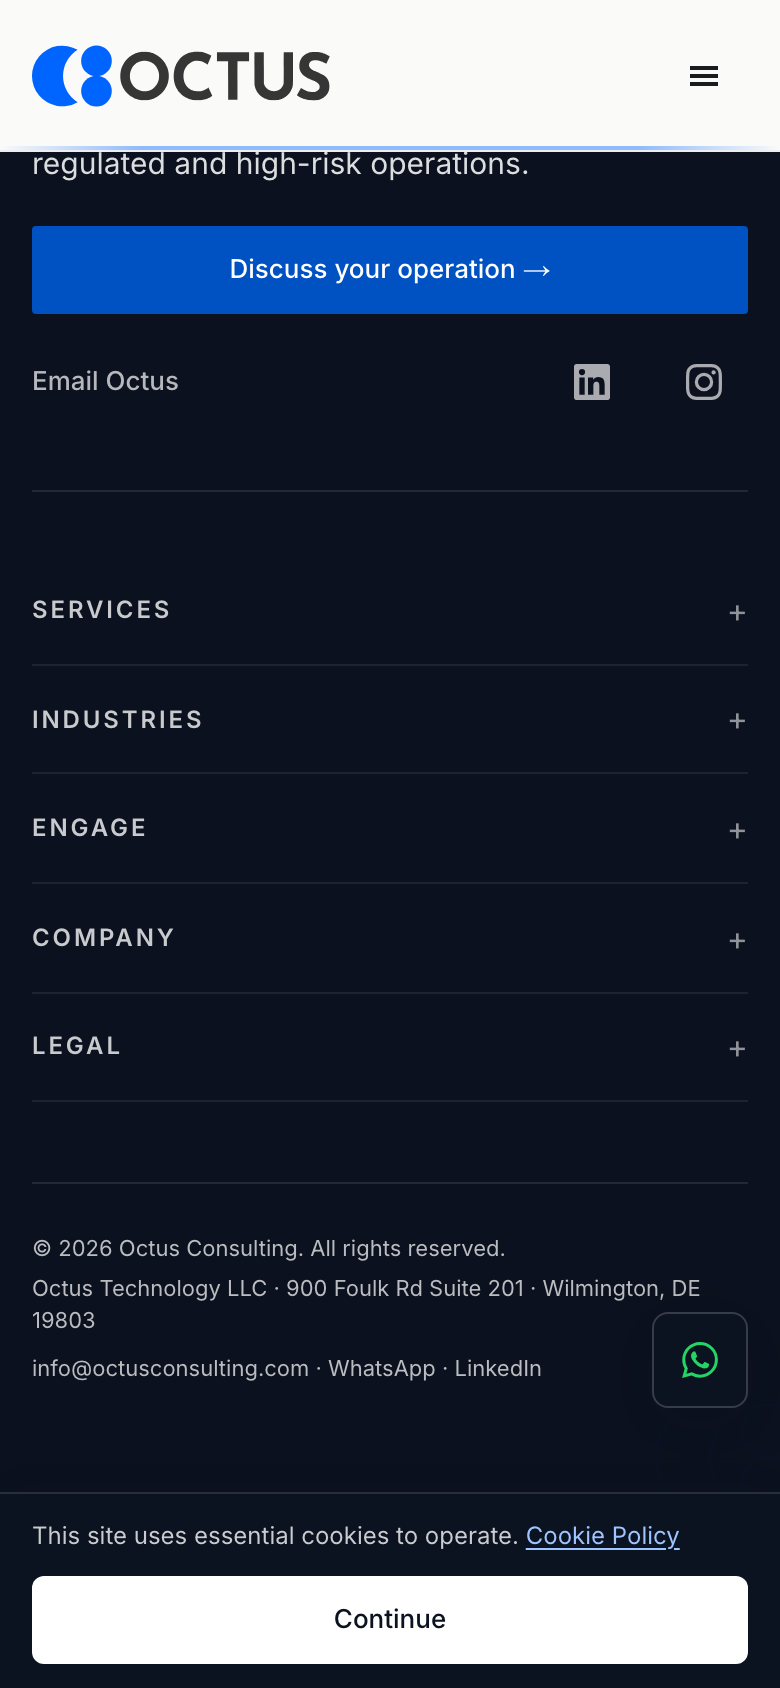
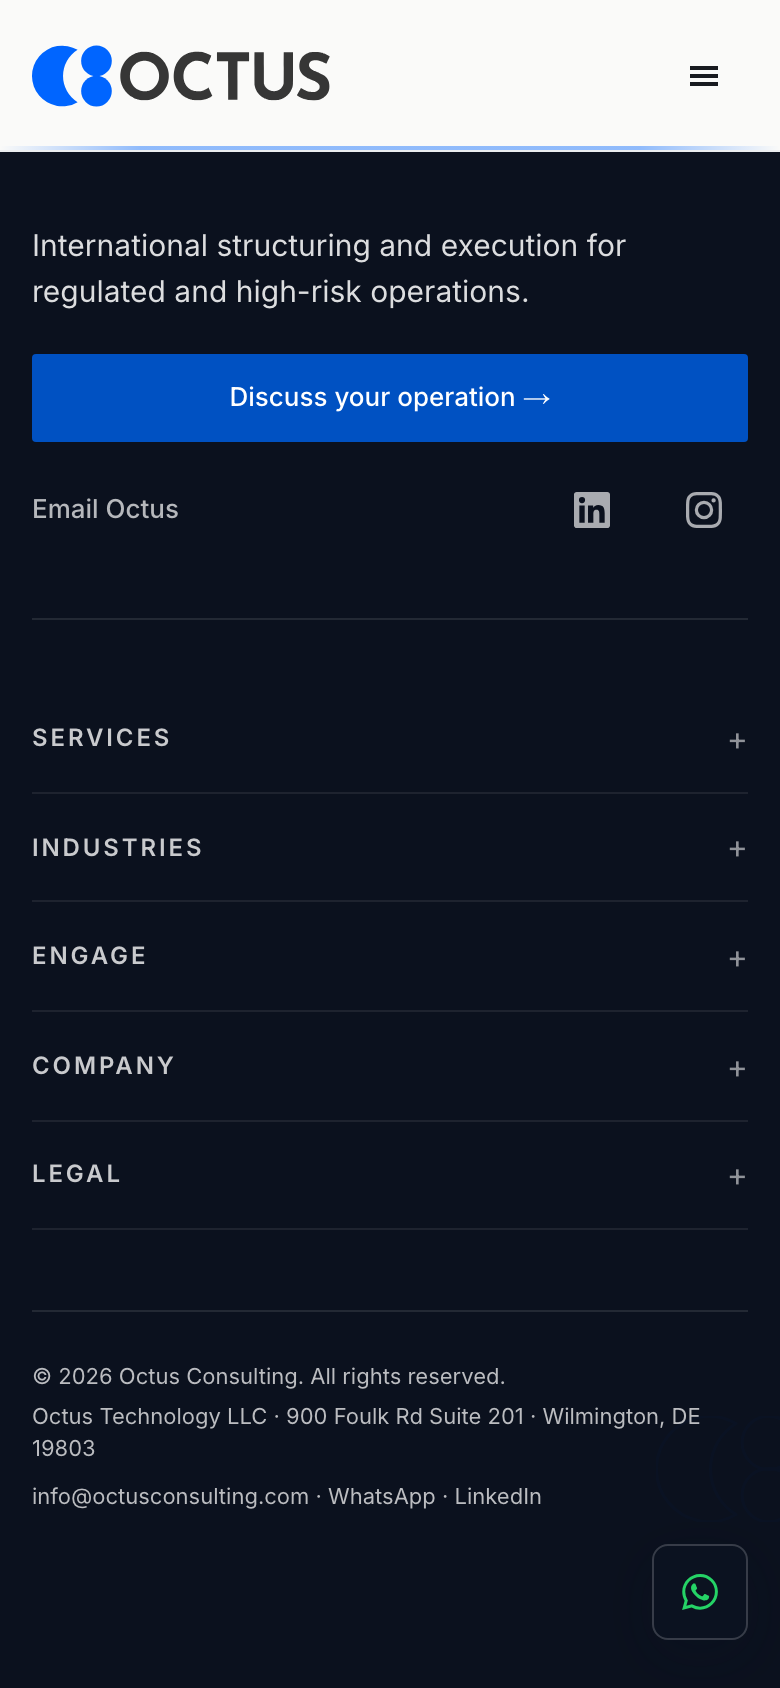
docs(release): correct cookie consent visual evidence
Recapture footer cookie visible vs accepted states from APP_QA preview
so screenshot hashes differ and WhatsApp elevation is proven.

diff --git a/docs/ops/evidence/OCTUS_MOBILE_REMEDIATION_2026-08-05/REPORT.md b/docs/ops/evidence/OCTUS_MOBILE_REMEDIATION_2026-08-05/REPORT.md
@@ -1,61 +1,48 @@
 # Octus Mobile Remediation — Relatório QA (2026-08-05)
 
 **Status técnico:** `MOBILE_REMEDIATION_PASS`  
-**Merge gate:** `AWAITING_RUBIO_EXPLICIT_APPROVAL`  
-**Produção tocada:** NÃO  
-**Merge executado:** NÃO
+**Merge gate:** Rubio authorized — evidence correction then squash-merge  
+**Produção tocada (pré-merge):** NÃO  
 
 | Campo | Valor |
 |-------|-------|
-| Branch HEAD | `9fb4fff229b9915f9fb8f9b919c23399654d340d` |
-| Preview | https://octus-consulting-mobqz674u-axle1.vercel.app |
+| APP_QA_SHA | `9fb4fff229b9915f9fb8f9b919c23399654d340d` |
+| CURRENT_BRANCH_HEAD | `7c4f4373061abadb05aa774eeb89fe6a57b50895` |
+| App QA Preview | https://octus-consulting-mobqz674u-axle1.vercel.app |
 | Preview deployment | `dpl_BAJ4Dju9yefNLgJFo8cEDuEduGzt` |
-| CI | PASS — https://github.com/rubioprojects/octus-consulting/actions/runs/31002872157 |
-| Produção viva | SHA `28eb2ec` · `dpl_EJ7fPhWXFKLN9wEfU5N8dSiZpEP3` |
+| Produção viva (pré-release) | SHA `28eb2ec` · `dpl_EJ7fPhWXFKLN9wEfU5N8dSiZpEP3` |
+
+## Cookie consent evidence correction (2026-08-05)
+
+Recaptured from APP_QA preview at `390×844`:
+
+| Assertion | Result |
+|-----------|--------|
+| COOKIE_VISIBLE_SCREENSHOT | banner visible |
+| COOKIE_ACCEPTED_SCREENSHOT | banner absent |
+| WHATSAPP_OVERLAP | false (gap ≈ 41.6px; WA `bottom: 140px` elevated) |
+| SCREENSHOT_HASHES_DIFFERENT | true |
[2 lines of base64/hex data omitted]
+| WA resting after accept | `bottom: 24px` |
 
 ## Gates
 
 | Gate | Resultado |
 |------|-----------|
-| `npm run lint` | PASS |
-| `npm run build` | PASS |
-| GitHub Actions lint+build | PASS |
-| Vercel preview READY | PASS |
-| Playwright matrix (local + preview) | PASS |
-| Overflow horizontal páginas críticas | PASS |
-| Cookie × WhatsApp overlap | PASS (gap ≈ 41px @ 390×844) |
-| Redirects no preview (`vercel.json`) | PASS (308) |
-| Preview `X-Robots-Tag: noindex` | PASS |
-| Regressão desktop @ 1024 | PASS (nav desktop) |
+| Playwright matrix | PASS |
+| Overflow horizontal | PASS |
+| Cookie × WhatsApp overlap | PASS |
+| Redirects no preview | PASS (308) |
+| Preview `noindex` | PASS |
+| Desktop @ 1024 | PASS |
 
-## Causas raiz
+## Terminology
 
-1. Cascata CSS acumulada com breakpoints conflitantes (639/640/767/768/1024).
-2. Nav desktop em `md` (768) — tablet via desktop comprimido.
-3. `MobileRemediation.module.css` órfão (não importado).
-4. Hero com `min-height: 880px` no mobile.
-5. Rail em grid 2 colunas denso.
-6. Leadership forçado a 1 coluna ≤640px.
-7. WhatsApp `z-index` acima do cookie sem lift espacial.
-8. Fonte Unigeo duplicada (`@font-face` + `next/font`).
-
-## SoT responsivo
-
-Opção A: bloco **OCTUS FINAL MOBILE REMEDIATION** no fim de `app/globals.css`. Módulo órfão removido.
+- `APP_QA_SHA` = application tip used for visual QA (`9fb4fff`) — **not** current branch HEAD after docs/evidence stamps.
+- `CURRENT_BRANCH_HEAD` = tip after this evidence correction commit.
 
 ## Evidência
 
 `docs/ops/evidence/OCTUS_MOBILE_REMEDIATION_2026-08-05/screenshots/`  
 `QA_MATRIX.json`
-
-## Dependências externas (não bloqueiam mobile)
-
-GTM/GA4 IDs, Search Console, Consent Mode v2 — ver `ANALYTICS_INSERTION_POINTS.md`.
-
-## Recomendação
-
-```text
-TECHNICAL PASS — READY FOR RUBIO MERGE AUTHORIZATION
-```
-
-Não fazer merge/prod/DNS sem autorização explícita do Rubio.
